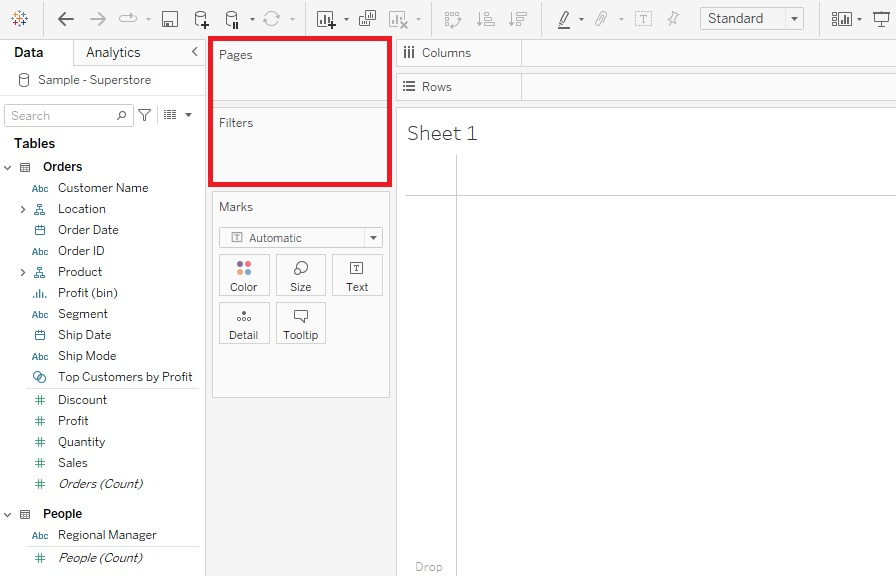
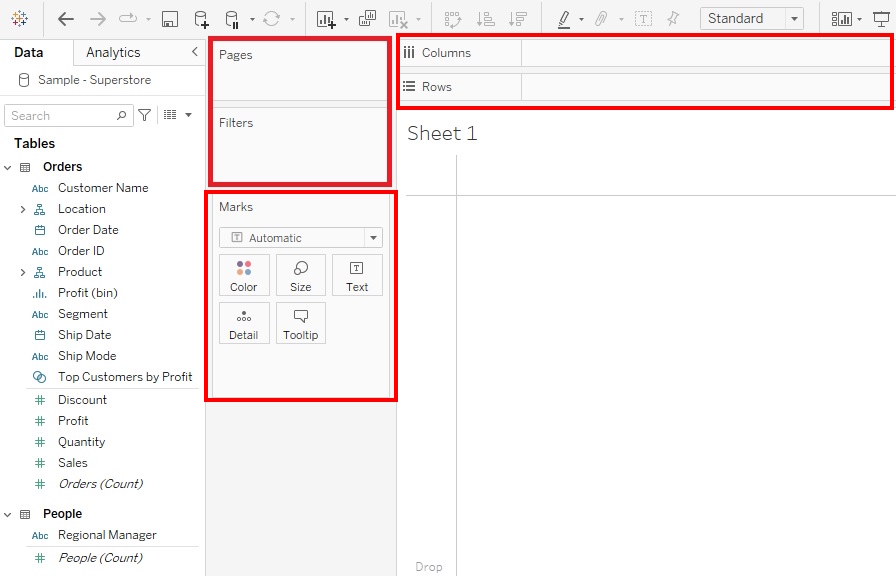
updated content and screenshots up to end of Bar Graphs section

Changed region(s): [[0.4375, 0.0312, 1.0, 0.2188], [0.2188, 0.3125, 0.4375, 0.7188], [0.4375, 0.3438, 0.4688, 0.6875]]

diff --git a/docs/2-creating-bar-graphs.md b/docs/2-creating-bar-graphs.md
@@ -14,7 +14,18 @@ nav_order: 2
 
 ## Creating Bar Graphs
 
-1. We are going to start with a built-in dataset.  Under Saved Data Sources, select Sample - Superstore. <img src='{{ '/assets/images/TableauWorkshop1.1.jpg' | relative_url }}' alt='The Tableau home screen is shown with Sample – Superstore outlined with a red box at the bottom left' title='' width='1642' height='971' />
+1. We are going to start with a dataset from Tableau. If you are using Tableau Desktop, the dataset is built in. Under Saved Data Sources, select Sample - Superstore. 
+
+    <img src='{{ '/assets/images/TableauWorkshop1.1.jpg' | relative_url }}' alt='The Tableau home screen is shown with Sample – Superstore outlined with a red box at the bottom left' title='' width='1642' height='971' />
+
+    OR If you are using Tableau Public, you will need to first download the [Superstore Sales dataset from Tableau](https://public.tableau.com/app/sample-data/sample_-_superstore.xls). Then in Tableau, we need to load the data. Click on Microsoft Excel under Connect To a File. Select the superstore file. Drag the Orders sheet into the blank space to the right of it to select that sheet from the Excel workbook. Finally, click on Sheet 1 at the bottom.
+
+    <img src='{{ '/assets/images/Tableau_Demo_BarGraph_001b.png' | relative_url }}' alt='The Tableau home screen is shown with Microsoft Excel outlined with a red box at the bottom left' title='' width='1642' height='971' /> 
+    <img src='{{ '/assets/images/Tableau_Demo_BarGraph_001c.png' | relative_url }}' alt='The superstore Excel file and the Open button outlined with red boxes' title='' width='1642' height='971' /> 
+    <img src='{{ '/assets/images/Tableau_Demo_BarGraph_001d.png' | relative_url }}' alt='The Tableau data loading screen is shown with the Orders sheet outlined with a red box and an arrow indicating to the right to illustrate dragging it to the right' title='' width='1642' height='971' /> 
+    <img src='{{ '/assets/images/Tableau_Demo_BarGraph_001b.png' | relative_url }}' alt='The Tableau data loading screen is shown with Sheet 1 outlined with a red box at the bottom left' title='' width='1642' height='971' /> 
+
+
 2. Let’s look around first before we dive in. On the left you can see Tables listed. Within a Table, the variables are listed, but divided by a thin grey line. Tableau categorizes variables as either Dimensions (above the line) or Measures (below the line). Dimensions are roughly qualitative data and Measures are roughly quantitative data.
 
     <img src='{{ '/assets/images/ReTableauWorkshop1-2.jpg' | relative_url }}' alt='Under the Tables menu on the left, Dimensions and Measures variables are outlined with a red box.' title='' width='1220' height='883' />
@@ -25,16 +36,16 @@ nav_order: 2
 
     <img src='{{ '/assets/images/ReReTableauWorkshop1-3.3.jpg' | relative_url }}' alt='The Marks area is outlined with a red box underneath the Pages and Filters boxes' title='' width='943' height='728' />  
     
-    We’ll take a look at all these options as we go through the demo. One of the useful features of Tableau, to take a look at when you’re new to the tool and/or data visualization, is the Show Me feature. If you hold down Control and click on a couple of variables (hold down Command if on Mac), and then expand the Show Me tab, you’ll see that Tableau is giving you suggestions for what type of visualization to use.  
+    We’ll take a look at all these options as we go through the demo. One of the useful features of Tableau, to take a look at when you’re new to the tool and/or data visualization, is the Show Me feature. If you hold down Control and click on a couple of variables (hold down Command if on Mac), and then expand the Show Me tab, you’ll see that Tableau is giving you suggestions for what type of visualization to use by outlining the recommended visual.  
 
     <img src='{{ '/assets/images/TableauWorkshop1.2-2.jpg' | relative_url }}' alt='Order Date and Order ID are highlighted in blue and outlined with a red box under the Tables menu on the left. The Show Me menu is outlined with a red box on the top right' title='' width='1657' height='970' />
 5. Okay, we’ve loaded in some data about a US fictional superstore, so let’s start by creating some visualizations that are used to make comparisons. Let’s start by making a simple bar graph. To keep track of all the visualizations we’re going to create, let’s rename our sheets as we go. Right-click on Sheet 1 at the bottom, select Rename, and give it the name “Sales Bar” and press Enter.
 
     <img src='{{ '/assets/images/ReTableauWorkshop1-3.jpg' | relative_url }}' alt='Sheet 1 at the bottom left and Rename from the pop-up menu are outlined with a red box' title='' width='' height='636' />
-6. We’re going to create a horizontal bar graph to compare the amount of sales for different subcategories of products, with Sub-Category along the y-axis and Sales along the x-axis. Bar graphs are great for comparing categories. So drag the Sales variable (in the Measures section) next to Columns and Sub-Category (in the Dimensions section under Product) next to Rows.  
+6. We’re going to create a horizontal bar graph to compare the amount of sales for different subcategories of products, with Sub-Category along the y-axis and Sales along the x-axis. Bar graphs are great for comparing categories. So drag the Sales variable (in the Measures section) next to Columns and Sub-Category (in the Dimensions section) next to Rows.  
 
     <img src='{{ '/assets/images/ReTableauWorkshop1-6.jpg' | relative_url }}' alt='A horizontal bar graph called Sales Bar is shown with Sub-Category along the y-axis and Sales along the x-axis. The Sales variable shown as SUM(Sales) is in the Columns and Sib-Category is in the Rows at the top' title='' width='1370' height='737' />
-7. You can see that when we dragged Sales, Tableau automatically summarized it by adding up all the Sales values for each Sub-Category. Right now it is showing data combined for all of our States/Provinces, but let’s say we just want it to show one of them. We can filter by State/Provinces by dragging the State/Province variable (in the Dimensions section under Location) over to the Filters shelf and selecting one State/Province from the list.
+7. You can see that when we dragged Sales, Tableau automatically summarized it by adding up all the Sales values for each Sub-Category. Right now it is showing data combined for all of the States (this is a US example), but let’s say we just want it to show one of them. We can filter by State by dragging the State variable (in the Dimensions section) over to the Filters shelf and selecting one State from the list.
 
     <img src='{{ '/assets/images/TableauWorkshop1.5.jpg' | relative_url }}' alt='State/Province is outlined with a red box under the Tables menu on the left, and Filters in the centre area is outlined with a red box' title='' width='1479' height='767' />  
         
@@ -59,8 +70,8 @@ nav_order: 2
         But you can see this makes our bar graph look cluttered, so let’s **keep Show mark labels unchecked.**
 
     <img src='{{ '/assets/images/ReTableauWorkshop1-9.2.jpg' | relative_url }}' alt='Label under the Marks card is outlined with a red box. Show mark labels is not checked off and outlined with a red box' title='' width='1380' height='657' />
-12. You normally drag a variable on to the Detail section to expand out what’s plotted or visualized. We’ll look an example of this later.
-13. Finally, the Tooltip section allows you to customize the text and format in the pop-up that shows up when you hover or click on a particular bar. For example, let’s add the broader Category that the product falls under in the Tooltip. To do this, drag the Category variable (in the Dimensions section under Product) to the Tooltip box.
+12. You normally drag a variable on to the Detail section to clarify to what level of detail are marks on the page displayed at. We’ll look an example of this later.
+13. Finally, the Tooltip section allows you to customize the text and format in the pop-up that shows up when you hover or click on a particular bar. For example, let’s add the broader Category that the product falls under in the Tooltip. To do this, drag the Category variable (in the Dimensions section) to the Tooltip box.
 
     <img src='{{ '/assets/images/TableauWorkshop1.11-1.jpg' | relative_url }}' alt='Category under the Tables menu on the left is outlined with a red box. Tooltip under the Marks card is outlined with a red box' title='' width='1174' height='685' />  
         Then click on Tooltip. In the edit box, you’ll see that Category has been added underneath Sub-Category to the Tooltip. However, if you want to change the order, perhaps to have the broader category go first, you can click on Tooltip and edit the box. Let’s switch the order and click on OK.
@@ -70,17 +81,19 @@ nav_order: 2
 
     <img src='{{ '/assets/images/ReTableauWorkshop1-12.1.jpg' | relative_url }}' alt='Edit Axis... is outlined with a red box near the x-axis of the horizontal bar graph' title='' width='1172' height='644' />
 
-    Let's edit the x-axis Title to say 'Sales in US Dollars'. Then click the top right x button to close the pop-up.
+    Let's edit the x-axis Title next to Custom to say 'Sales in US Dollars'. Once we are done there's no OK button to click, just close the window, as the changes have already been applied.
 
-    <img src='{{ '/assets/images/ReTableauWorkshop1-12.2.jpg' | relative_url }}' alt='The X button at the top right and Sales in US Dollars Axis Title at the bottom left are outlined with a red box at the of the Edit Axis [Sales] General menu' title='' width='449' height='644' />
+    <img src='{{ '/assets/images/ReTableauWorkshop1-12.2.png' | relative_url }}' alt='The Sales in US Dollars Custom Axis Title at the bottom is outlined with a red box in the Edit Axis [Sales] pop-up window' title='' width='449' height='644' />
 15. Right now the bars are sorted in alphabetical order by Sub-Category, but if you hover over the x-axis label, Sales in US Dollars, a small sort icon appears. Click on it to sort your bars by Sales instead. Every time you click the icon, it cycles through different sort orders. Let’s have it sort descending with the Sub-Category with the largest sales at the top. You can now easily see the top and bottom sub-categories in terms of sales.
 
     <img src='{{ '/assets/images/ReTableauWorkshop1-13.jpg' | relative_url }}' alt='The Sort Icon at the centre bottom of the horizontal bar graph is outlined with a red box' title='' width='1164' height='605' />
 16. If we wanted to, we could also spread this visualization out a bit, so it isn’t squished up at the top. From the top ribbon where it says Standard, use the drop-down to select Entire View.  
 
     <img src='{{ '/assets/images/ReTableauWorkshop1-14.jpg' | relative_url }}' alt='The drop-down menu from the top ribbon is outlined with a red box with Entire View highlighted' title='' width='1373' height='868' />
-17. Finally, we can give our visualization a more meaningful title by double clicking where it says “Sales Bar” at the top. You’ll see the default title is the sheet name, but we can change that. Let’s put “Sales by Sub-Category for “ then instead of typing in “California”, we can make the title dynamic by click on Insert and selecting State/Province. Then if we change the filter, the title will automatically change. Now we’re done our first visualization!  
+17. Finally, we can give our visualization a more meaningful title by double clicking where it says “Sales Bar” at the top. You’ll see the default title is the sheet name, but we can change that. Let’s put “Sales by Sub-Category for “ then instead of typing in “California”, we can make the title dynamic by click on Insert and selecting State. Then if we change the filter, the title will automatically change.   
 
-    <img src='{{ '/assets/images/ReTableauWorkshop1-15.jpg' | relative_url }}' alt='The Insert drop-down menu at the top right and State/Province near the bottom of the drop-down options are outlined with a red box' title='' width='658' height='495' />
+    <img src='{{ '/assets/images/ReTableauWorkshop1-15.png' | relative_url }}' alt='The Insert drop-down menu at the top right and State/Province near the bottom of the drop-down options are outlined with a red box' title='' width='658' height='495' />
+
+Now we’re done our first visualization!
 
 **Technique:** [Data Visualization](https://mdlutoronto.github.io/tutorials-search/?technique=Data+Visualization) \| **Tools:** [Tableau](https://mdlutoronto.github.io/tutorials-search/?tool=Tableau)